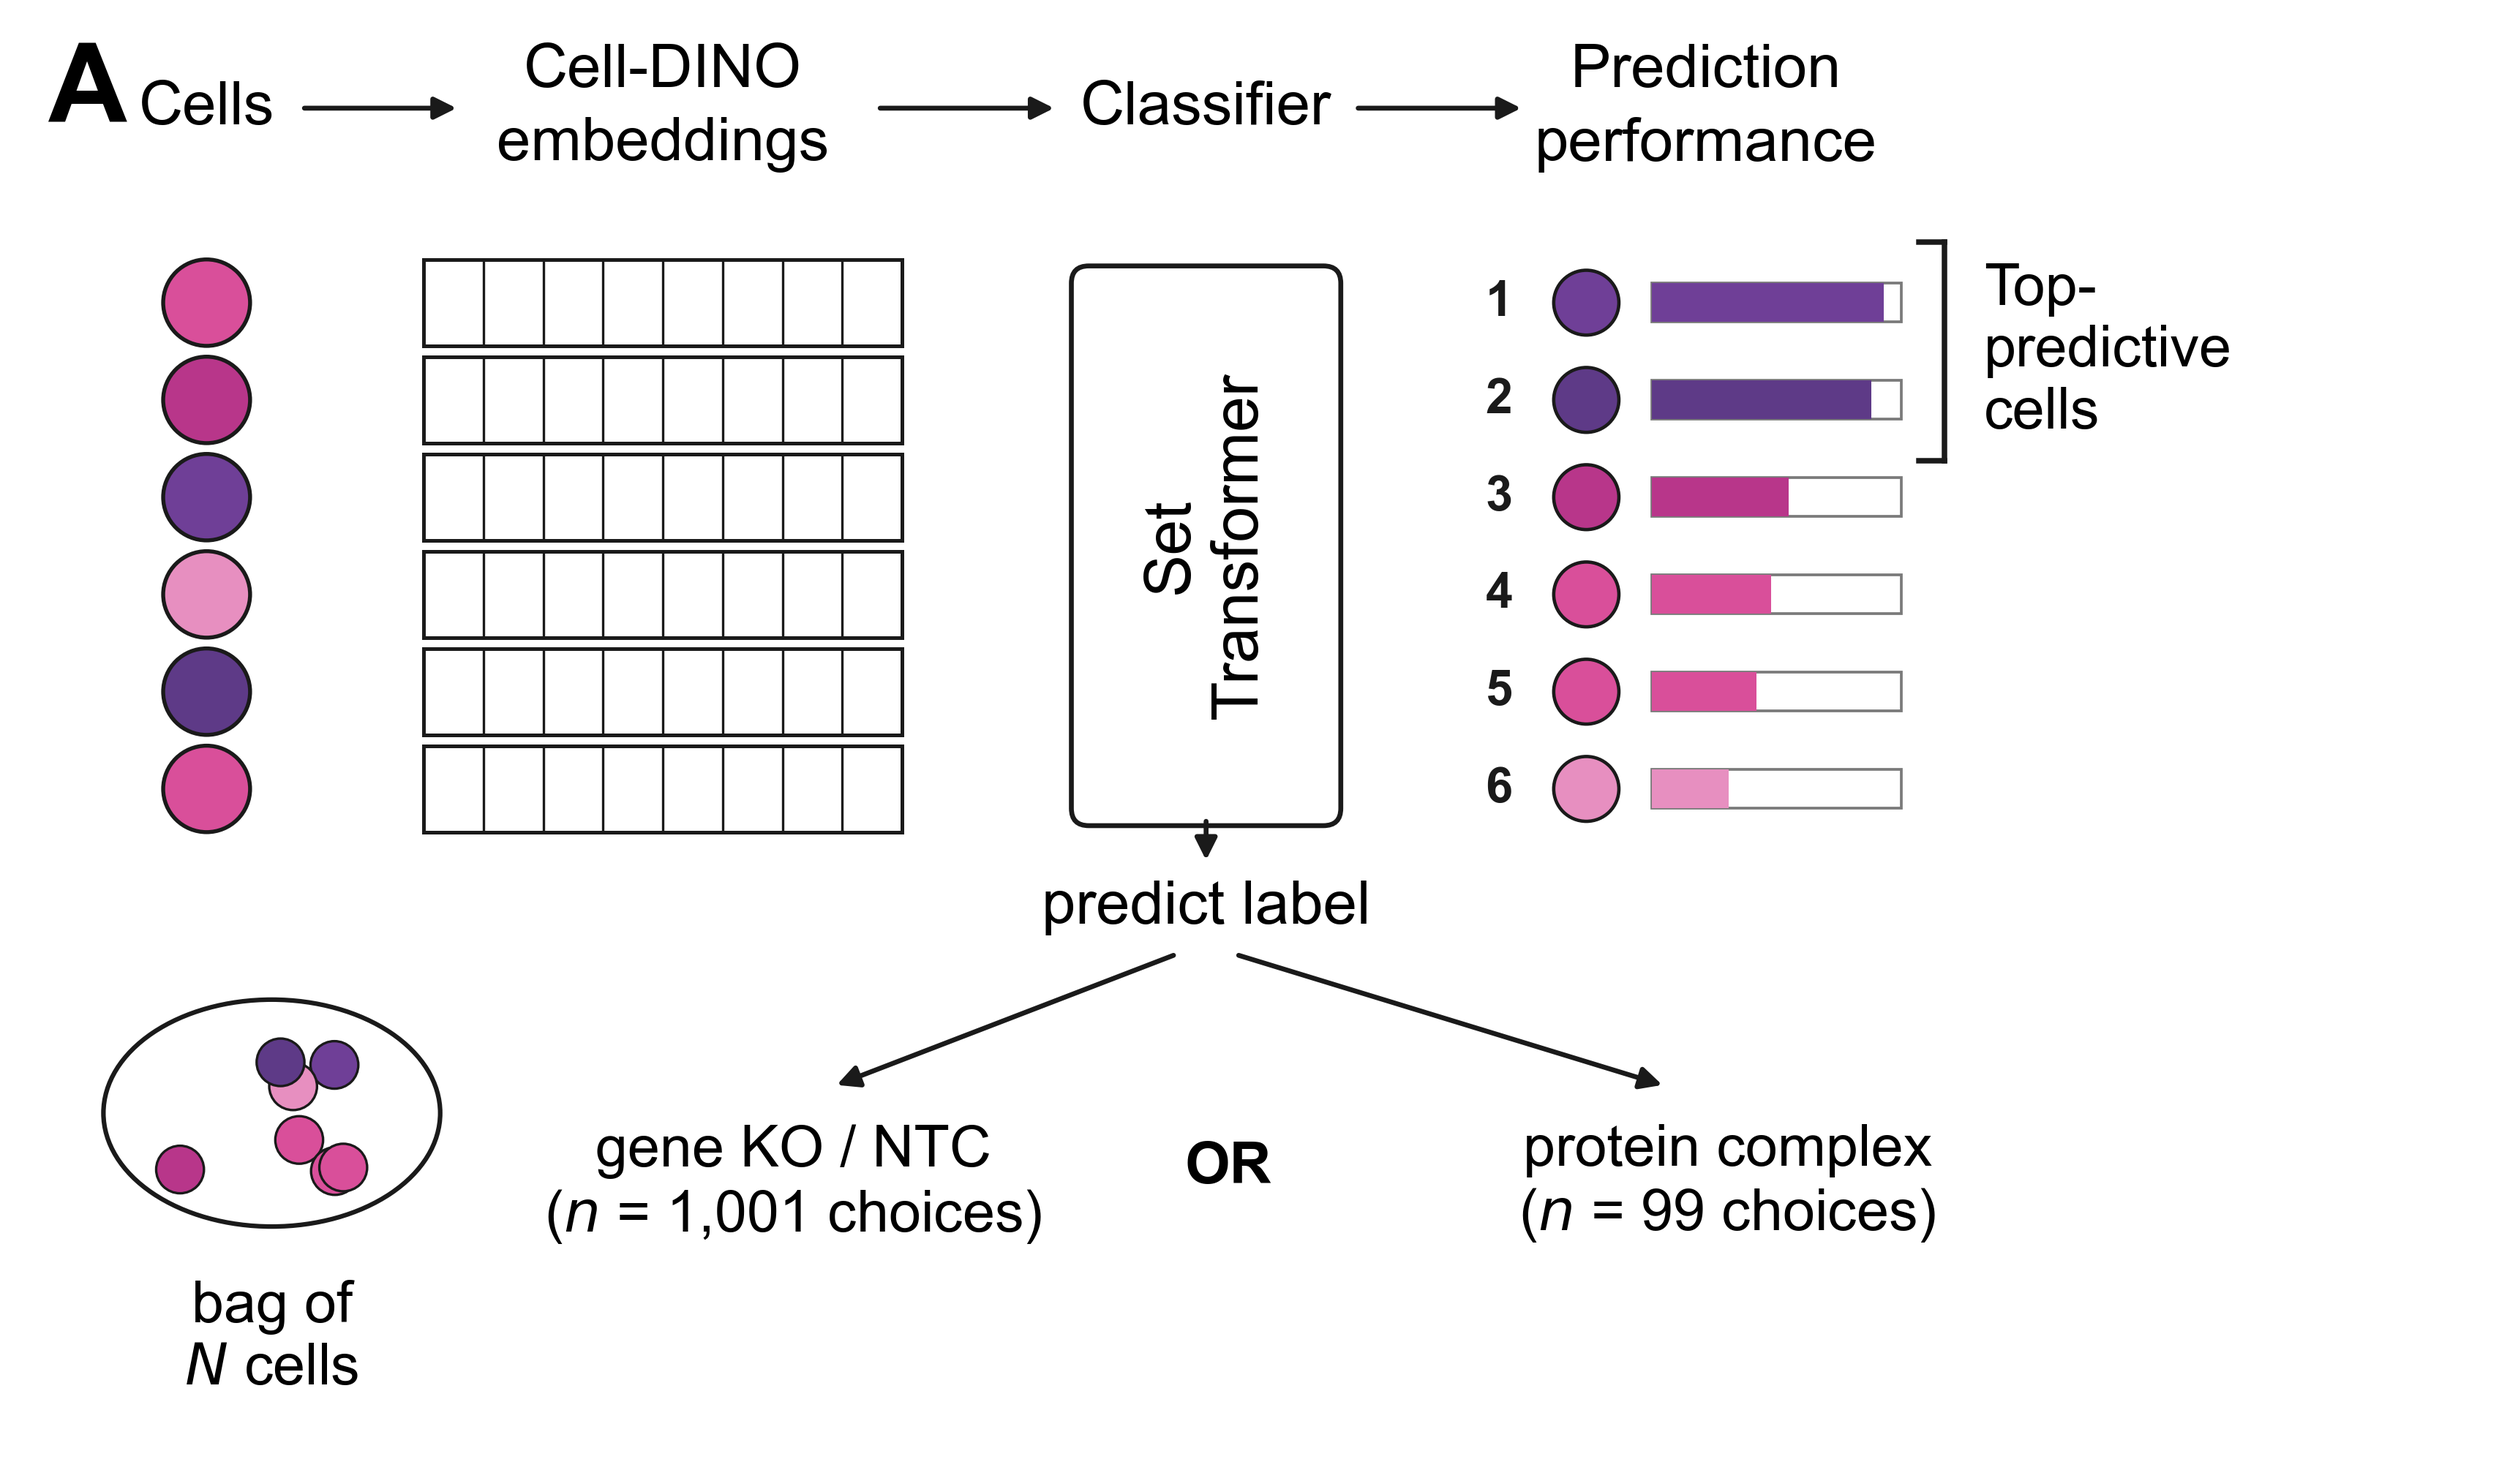
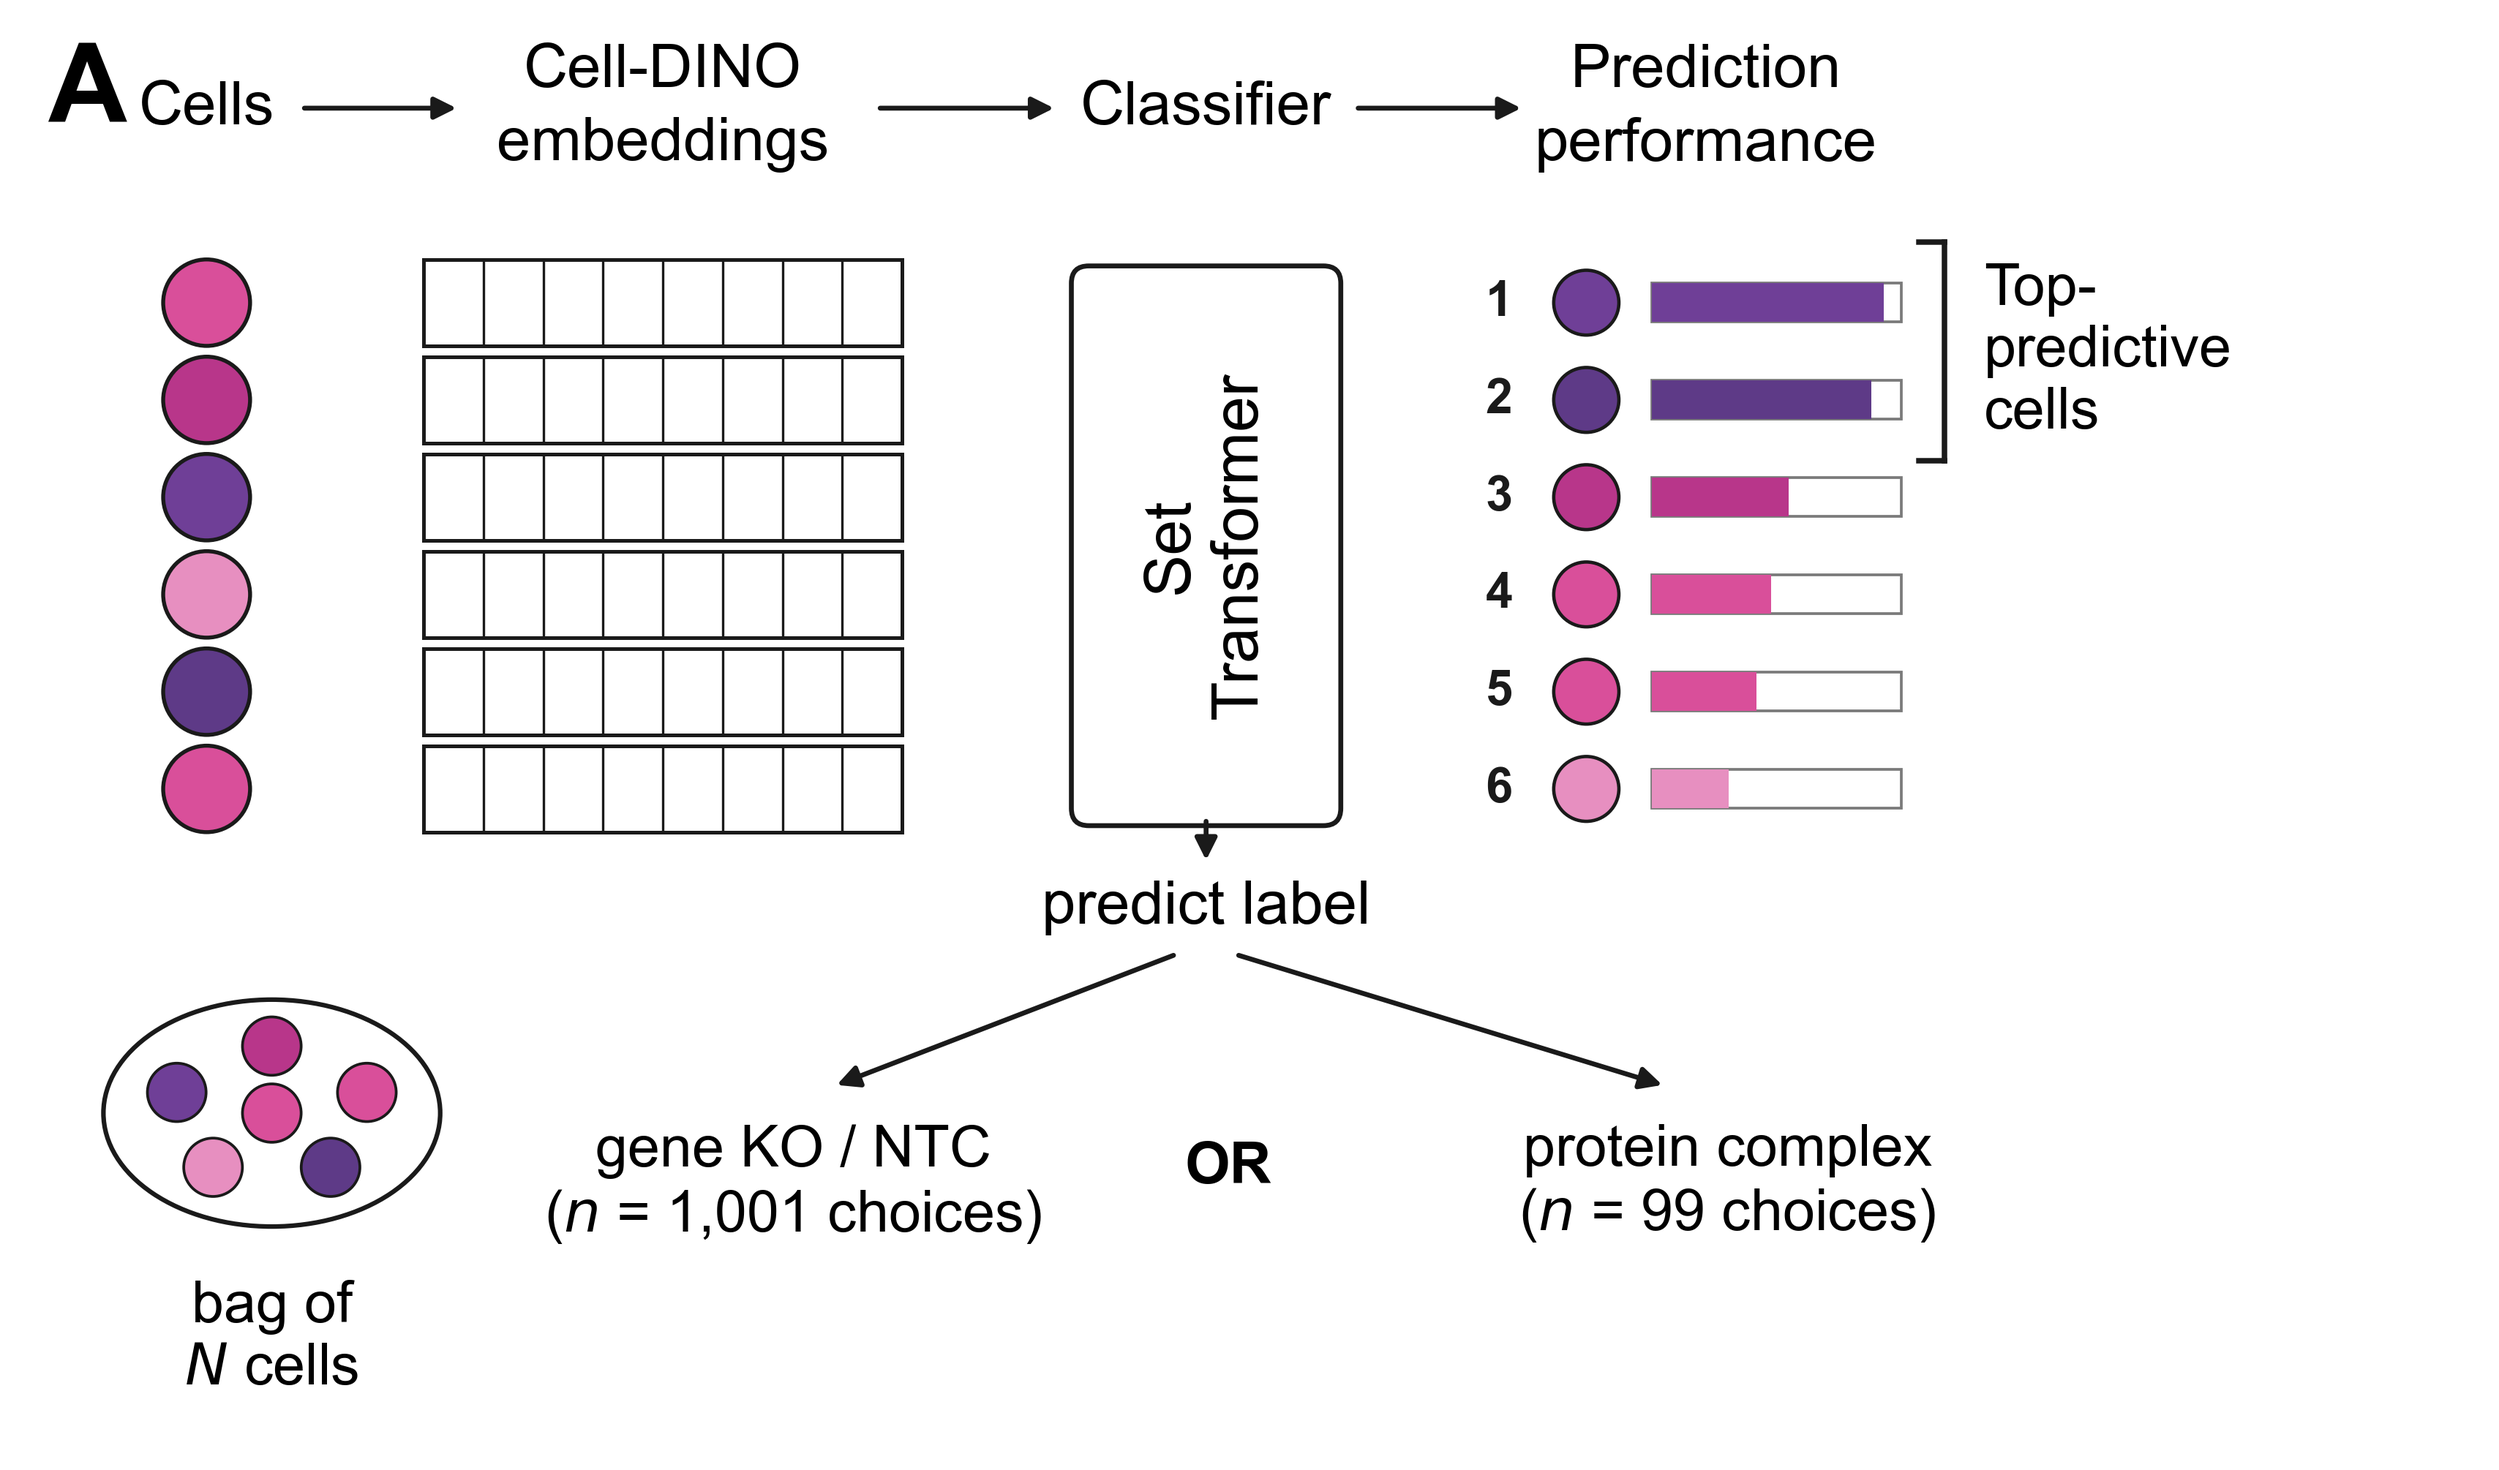
figure_4: tidy bag-of-N-cells packing in atlas schematic (centre + 5-ring, no overlap)

Changed region(s): [[0.0621, 0.6786, 0.1552, 0.8328]]

diff --git a/notebooks/figure_4/atlas_construction_schematic.py b/notebooks/figure_4/atlas_construction_schematic.py
@@ -117,17 +117,16 @@ def build(outstem="atlas_construction_accuracy"):
     ax.text(5.55, 1.42, "OR", fontsize=19, ha="center", va="top", fontweight="bold")
     ax.text(7.85, 1.5, "protein complex\n($n$ = 99 choices)", fontsize=19, ha="center", va="top")
 
-    # ---- input: bag of N cells (bottom-left, coloured cells) -------------
+    # ---- input: bag of N cells (bottom-left, tidy flower packing) --------
     bag_cx, bag_cy = 1.15, 1.55
     ax.add_patch(Ellipse((bag_cx, bag_cy), 1.55, 1.05, facecolor="white",
                          edgecolor=INK, lw=1.5, zorder=3))
-    rng = np.random.default_rng(0)
-    for i in range(7):
-        dx = rng.uniform(-0.46, 0.46)
-        dy = rng.uniform(-0.27, 0.27)
-        ax.add_patch(Circle((bag_cx + dx, bag_cy + dy), 0.11,
-                            facecolor=CELL_COLORS[i % len(CELL_COLORS)],
-                            edgecolor=INK, lw=0.8, zorder=4))
+    pts = [(0.0, 0.0)]                                   # centre + 5-ring
+    for a in np.deg2rad(np.linspace(90, 90 + 288, 5)):
+        pts.append((0.46 * np.cos(a), 0.31 * np.sin(a)))
+    for (px, py), col in zip(pts, CELL_COLORS):
+        ax.add_patch(Circle((bag_cx + px, bag_cy + py), 0.135,
+                            facecolor=col, edgecolor=INK, lw=0.9, zorder=4))
     ax.text(bag_cx, 0.78, "bag of\n$N$ cells", fontsize=19, ha="center", va="top")
 
     fig.subplots_adjust(left=0.005, right=0.995, top=0.995, bottom=0.01)
